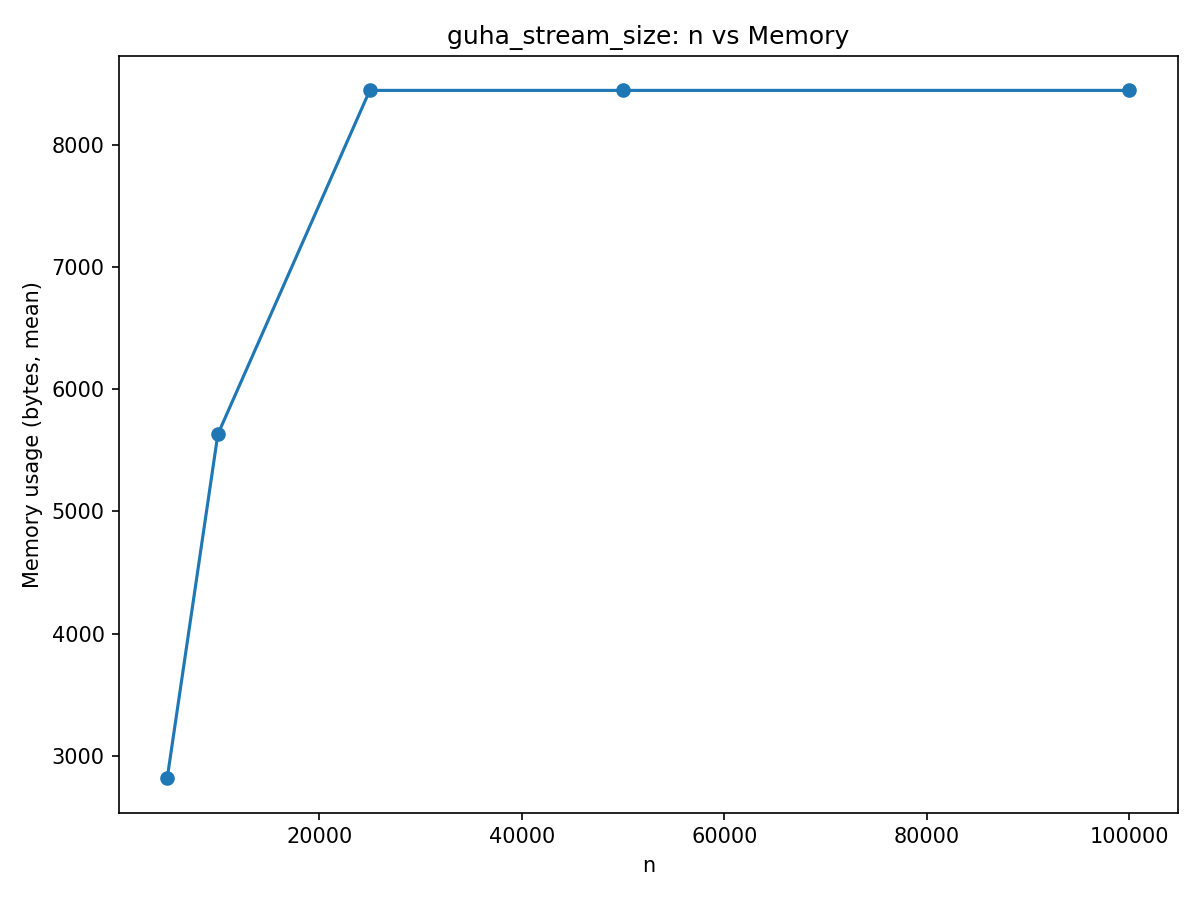
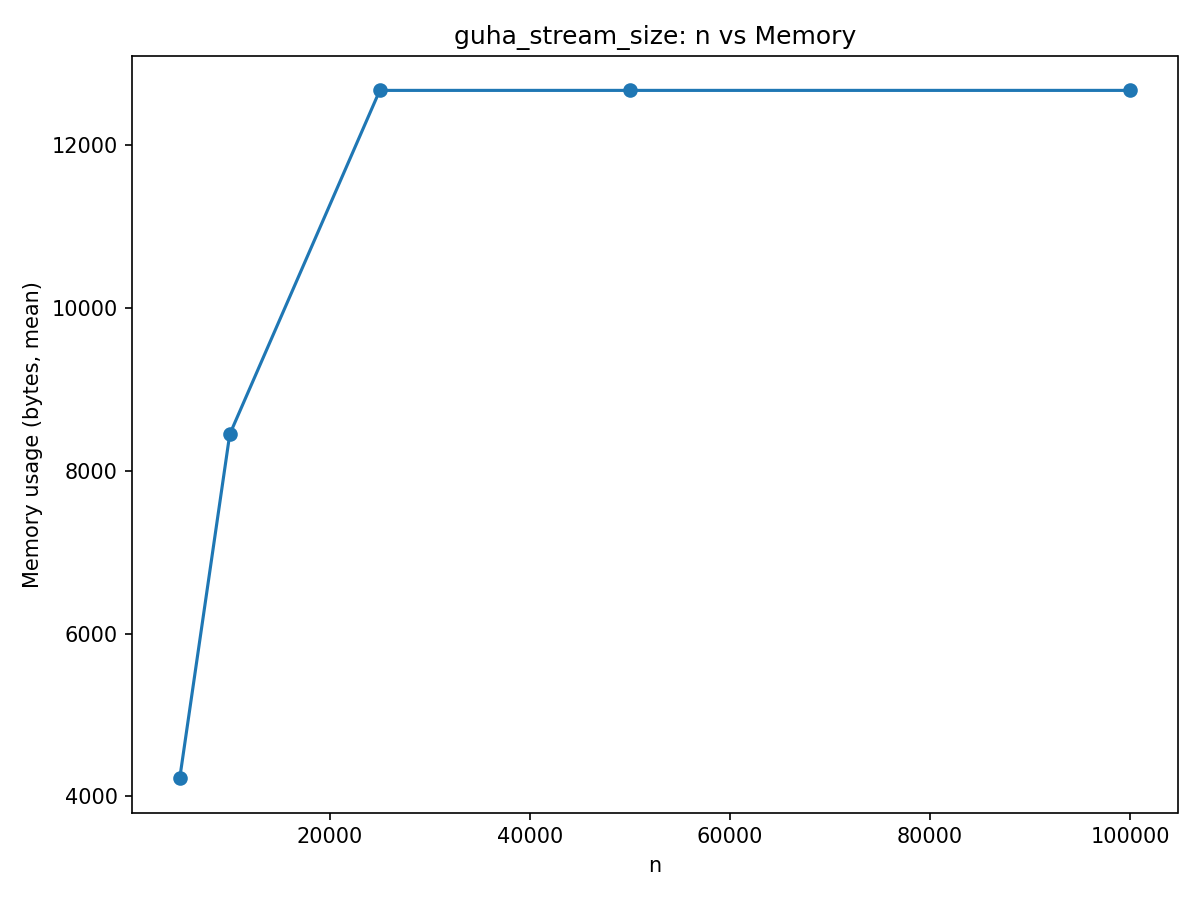
updated guha experiment and delete guha streaming

diff --git a/guha_experiment.py b/guha_experiment.py
@@ -10,7 +10,7 @@ import matplotlib.pyplot as plt
 
 from sklearn.datasets import make_blobs
 
-from guha_streaming import Guha_Stream_KMeans
+from guha_streaming_new import Guha_Stream_KMeans
 from utils import extract_quality
 
 
@@ -31,7 +31,6 @@ def make_synthetic_stream_dataset(
         random_state=seed,
     )
 
-    # Linear transform to avoid perfectly spherical blobs
     A = np.array([[0.6, -0.8], [0.4, 0.9]])
     X = X @ A
 
@@ -107,7 +106,9 @@ def save_summary_and_plots(
             nmi_mean=("nmi", "mean"),
             nmi_std=("nmi", "std"),
             summary_points_mean=("summary_points", "mean"),
+            summary_points_std=("summary_points", "std"),
             levels_used_mean=("levels_used", "mean"),
+            levels_used_std=("levels_used", "std"),
             avg_update_ms_mean=("avg_update_ms", "mean"),
             points_seen_mean=("points_seen", "mean"),
         )
@@ -116,7 +117,6 @@ def save_summary_and_plots(
 
     agg.to_csv(os.path.join(output_dir, f"{prefix}_aggregated_results.csv"), index=False)
 
-    # x vs memory
     plt.figure(figsize=(8, 6))
     plt.plot(agg[x_col], agg["memory_mean"], marker="o")
     plt.xlabel(x_col)
@@ -126,7 +126,6 @@ def save_summary_and_plots(
     plt.savefig(os.path.join(output_dir, f"{prefix}_{x_col}_vs_memory.png"), dpi=150)
     plt.close()
 
-    # x vs runtime
     plt.figure(figsize=(8, 6))
     plt.plot(agg[x_col], agg["runtime_sec_mean"], marker="o")
     plt.xlabel(x_col)
@@ -136,7 +135,6 @@ def save_summary_and_plots(
     plt.savefig(os.path.join(output_dir, f"{prefix}_{x_col}_vs_runtime.png"), dpi=150)
     plt.close()
 
-    # x vs quality
     plt.figure(figsize=(8, 6))
     plt.plot(agg[x_col], agg["quality_mean"], marker="o")
     plt.xlabel(x_col)
@@ -161,7 +159,6 @@ def save_summary_and_plots(
     return agg
 
 
-# Experiment 1: Scalability with stream size
 def experiment_stream_size(
     output_dir: str,
     n_values=(5_000, 10_000, 25_000, 50_000, 100_000),
@@ -169,7 +166,7 @@ def experiment_stream_size(
     k_true: int = 8,
     k_algo: int = 8,
     chunk_size: int = 4096,
-    m_factor: float = 2.0,
+    m_factor: float = 6.0,
     seeds=(42, 77, 211),
 ):
     rows = []
@@ -206,11 +203,54 @@ def experiment_stream_size(
     return df_all, agg
 
 
+def experiment_m_factor(
+    output_dir: str,
+    n: int = 50_000,
+    d: int = 10,
+    k_true: int = 8,
+    k_algo: int = 8,
+    chunk_size: int = 4096,
+    m_factors=(4.0, 6.0, 8.0, 10.0, 12.0),
+    seeds=(42, 77, 211),
+):
+    rows = []
+
+    X, y = make_synthetic_stream_dataset(
+        n=n,
+        d=d,
+        k_true=k_true,
+        seed=321,
+    )
+
+    for m_factor in m_factors:
+        for seed in seeds:
+            row = run_single_guha(
+                X=X,
+                y=y,
+                k=k_algo,
+                seed=seed,
+                chunk_size=chunk_size,
+                m_factor=m_factor,
+            )
+            rows.append(row)
+
+        print(f"Completed m-factor experiment for m_factor={m_factor}")
+
+    df_all = pd.DataFrame(rows)
+    agg = save_summary_and_plots(
+        df_all=df_all,
+        group_cols=["m_factor", "m_summary"],
+        output_dir=output_dir,
+        prefix="guha_m_factor",
+        x_col="m_factor",
+    )
+    return df_all, agg
+
+
 def main():
     base_output_dir = "output_algorithms/guha/guha_assumption"
     os.makedirs(base_output_dir, exist_ok=True)
 
-    # Check scalability with stream size
     experiment_stream_size(
         output_dir=os.path.join(base_output_dir, "stream_size"),
         n_values=(5_000, 10_000, 25_000, 50_000, 100_000),
@@ -218,12 +258,22 @@ def main():
         k_true=8,
         k_algo=8,
         chunk_size=4096,
-        m_factor=2.0,
+        m_factor=6.0,
         seeds=(42, 77, 211),
     )
 
+    experiment_m_factor(
+        output_dir=os.path.join(base_output_dir, "m_factor"),
+        n=50_000,
+        d=10,
+        k_true=8,
+        k_algo=8,
+        chunk_size=4096,
+        m_factors=(4.0, 6.0, 8.0, 10.0, 12.0),
+        seeds=(42, 77, 211),
+    )
 
-    print("Guha experiment completed.")
+    print("Guha experiments completed.")
 
 
 if __name__ == "__main__":
